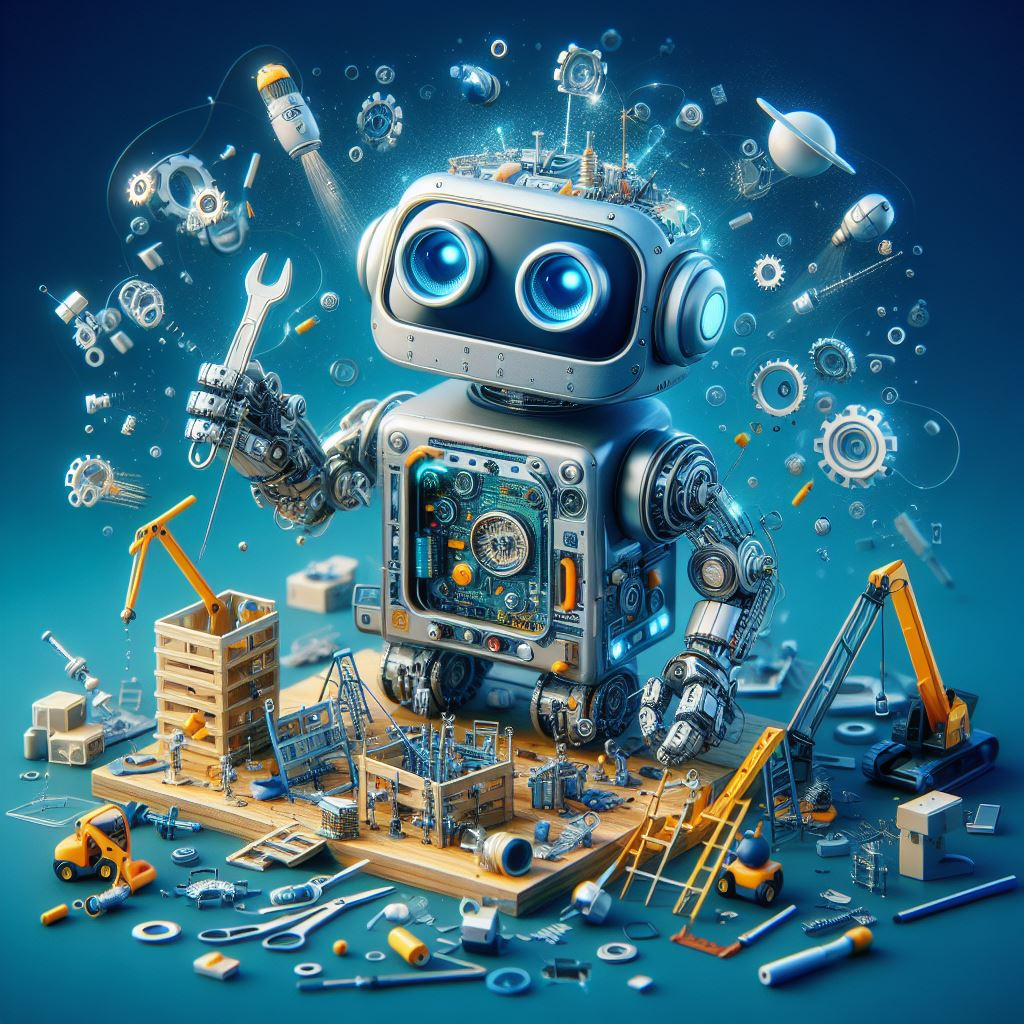
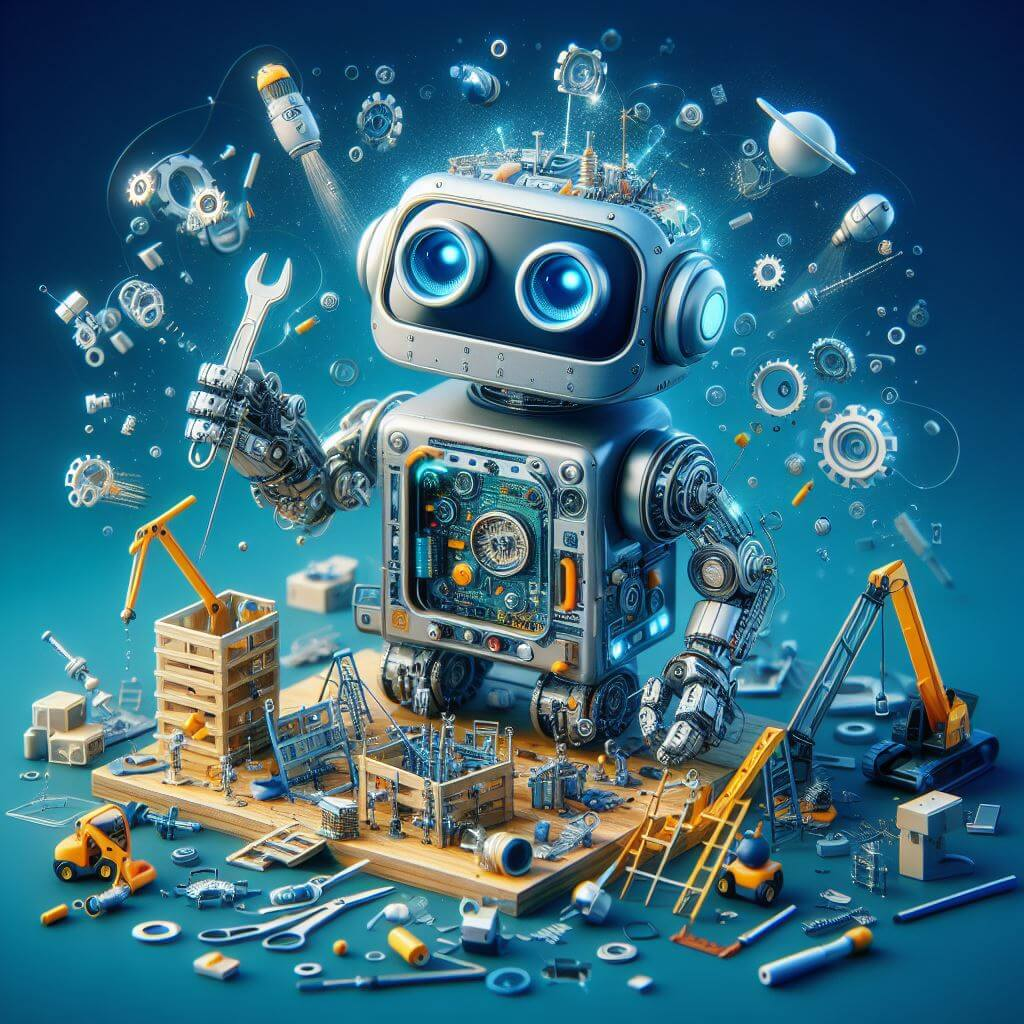
fixing image size

diff --git a/ecology.html b/ecology.html
@@ -53,7 +53,7 @@
             </div>
             <section class="ecology-exhibition-part1">
             <div class="ecology-exhibition-image">
-                <img src="assets/images/ecology_specific.png" alt="Earth inside a greenhouse with half the earth being normal and the other half is covered in grass and plants" class="ecology-img-desktop">
+                <img src="assets/images/ecology_specific-min.png" alt="Earth inside a greenhouse with half the earth being normal and the other half is covered in grass and plants" class="ecology-img-desktop">
                 <img src="assets/images/ecology_specific_mobile.png" alt="Earth inside a greenhouse with half the earth being normal and the other half is covered in grass and plants" class="ecology-img-mobile">
             </div>
             <div class="ecology-exhibition-text">
